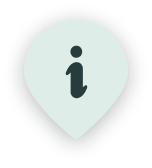
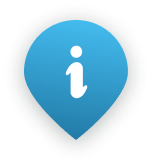
ajout style spécifique pour points infos

diff --git a/data/points-info.js b/data/points-info.js
@@ -2,6 +2,7 @@ const pointsInfo = [
     {
         milieu: "urbain",
         label: "Artificialisation des sols",
+        positionFiche: 'top',
         x: 54,
         y: 37,
         description: "L'artificialisation des sols est définie comme l'altération durable de tout ou partie des fonctions écologiques d'un sol, en particulier de ses fonctions biologiques, hydriques et climatiques, ainsi que de son potentiel agronomique par son occupation ou son usage. \n" +
@@ -11,7 +12,7 @@ const pointsInfo = [
     {
         milieu: "urbain",
         label: "Chateau d'eau",
-        positionFiche: 'left',
+        positionFiche: 'top',
         x: 95.2,
         y: 23,
         description: "Le château d'eau est une construction destinée à entreproser l'eau en hauteur pour permettre de la distribuer sous pression par gravité. \n" +
@@ -22,6 +23,7 @@ const pointsInfo = [
     {
         milieu: "urbain",
         label: "Bassin versant",
+        positionFiche: 'top',
         x: 73,
         y: 24,
         description: "Un bassin versant est une portion d'espace terrestre à l'intérieur de laquelle tous les écoulements, en surface ou en profondeur, se dirigent vers le même exutoire (cours d'eau, lac, mer). La ligne de délimitation du bassin versant avec ces voisins est appelée ligne de partage des eaux.",
@@ -29,6 +31,7 @@ const pointsInfo = [
     {
         milieu: "agricole",
         label: "Eaux souterraines",
+        positionFiche: 'top',
         x: 25,
         y: 70,
         description: "Les eaux souterraines sont constituées des réserves d'eau stockées dans les roches poreuses et perméables du sous-sol. Les nappes d'eau souterraine ne sont ni des lacs ni des cours d'eau souterrains : c'est de l'eau contenue dans les roches poreuses saturées par les eaux de pluie qui se sont infliltrées. Elles communiquent plus ou moins avec les milieux aquatiques de surface. Les nappes libres communiquent avec la surface car une couche perméable les recouvre. Les nappes captives sont recouvertes par au moins une couche géologique imperméable qui confine l'eau.",
@@ -36,6 +39,7 @@ const pointsInfo = [
     {
         milieu: "agricole",
         label: "Intrants",
+        positionFiche: 'top',
         x: 57,
         y: 44,
         description: "Un intrant peut tout autant être un pesticide de synthèse qui va avoir un impact négatif sur la qualité de l'eau tout comme un apport d'inoculum mycorhizien pour favoriser la tolérance de la culture vis à vis de la sécheresse. Ou encore, un amendement organique peut permettre d'accroitre la réserve utile des sols, améliore la perméabilité de la surface du sol, l'infiltration de l'eau et le ressuyage des sols ..." +
@@ -44,6 +48,7 @@ const pointsInfo = [
     {
         milieu: "agricole",
         label: "Prairies",
+        positionFiche: 'top',
         x: 67,
         y: 34,
         description: "Quelle que soit la nature de la prairie, son mode de conduite et sa localisation, une prairie joue un rôle important au regard de la protection de l'eau du fait qu'elle présente une couverture végétale permanente toute l'année et qu'elle est moins consommatrice d'intrants. Qui plus est, dans le cadre d'une prairie temporaire, elle permet de casser le cycle des adventices, d'apporter de l'azote et donc de diminuer l'usage d'intrants de synthèse pour les cultures qui lui succèdent.",
@@ -51,6 +56,7 @@ const pointsInfo = [
     {
         milieu: "naturel",
         label: "Libre évolution",
+        positionFiche: 'top',
         x: 47,
         y: 40,
         description: "Une zone humide laissée en libre évolution évolue naturellement selon plusieurs facteurs, notamment le climat, la topographie et les dynamiques écologiques locales. Voici les principales étapes et tendances possibles :\n" +
@@ -72,6 +78,7 @@ const pointsInfo = [
     {
         milieu: "naturel",
         label: "Plan d'aménagement forestier",
+        positionFiche: 'top',
         x: 81,
         y: 41,
         positionFiche: 'left',

diff --git a/styles.css b/styles.css
@@ -96,7 +96,7 @@ body[data-milieu="3"] #viewport-scroll {
 
 body.focus #viewport-scroll {
 /*    filter: grayscale(.9) brightness(1.15);*/
-    filter: brightness(1.15);
+/*    filter: brightness(1.15);*/
 }
 /*#focus-overlay {
     position:absolute;
@@ -155,6 +155,9 @@ body[data-milieu="3"] #focus-container {
 
 /*********** Amenagements ***********/
 
+.amenagement .amenagement-image {
+    transition: 2s;
+}
 .amenagement .amenagement-image img{
     position: absolute;
     pointer-events: none;
@@ -218,8 +221,8 @@ body[data-milieu="3"] #focus-container {
 
 .point-info .bulle-amenagement {
     background-image: url("img/UI/bulle_point_info.png");
-    background-image: url("img/UI/bulle_point_info_yellow.png");
     height: 152px;
+    filter: saturate(0.8);
 }
 
 .politique-gestion .bulle-amenagement {
@@ -260,6 +263,10 @@ body[data-milieu="3"] #focus-container {
     opacity: 0;
     visibility: hidden;
     pointer-events: none;
+}
+.amenagement.point-info .fiche-amenagement {
+    background:none;
+    padding-top:0;
 }
 
 .amenagement-ui.top .fiche-amenagement {
@@ -355,7 +362,7 @@ body[data-milieu="3"] #focus-container {
     background: linear-gradient(180deg, #5FD388 0%, #3EC46D 100%);
 }
 .amenagement.active .toggle-button{
-    background: linear-gradient(180deg, #d3a05f 0%, #d77e3f 100%);
+    background: linear-gradient(180deg, #e5d169 0%, #d1b739 100%);
 }
 
 

diff --git a/init.js b/init.js
@@ -94,7 +94,9 @@ function setupAmenagements()
         let amenagementClass = 'amenagement';
         if (isPolitiqueGestion)
             amenagementClass += ' politique-gestion';
-
+        else
+            amenagementClass += ' point-amenagement';
+        
         //-- Position UI
         let amenagementUIClass = '';
         if (isset(amenagement.positionFiche))
@@ -115,7 +117,7 @@ function setupAmenagements()
                         '<span class="effect-label">' + effect.label + '</span>' +
                         '</div>';
 
-                if (effectName == '')
+                if (modifier > 0)
                     positiveEffects += effectElt;
                 else
                     negativeEffects += effectElt;
@@ -126,7 +128,7 @@ function setupAmenagements()
             if (negativeEffects != '')
                 amenagementEffects += '<div class="negative-effects amenagement-effects-inner">' + negativeEffects + '</div>';
         }
-
+        
         let amenagementElt = $('' +
             '<div class="' + amenagementClass + '" data-label="' + amenagement.label + '">' +
                 '<div class="amenagement-image">' +

diff --git a/game.js b/game.js
@@ -170,7 +170,10 @@ function onClickBulleAmenagement()
     focusClone.find('.bulle-amenagement').removeClass('light');
 
     $('body').addClass('focus');
-    $('#focus-overlay').addClass('visible');
+    
+    if (!amenagementElt.is('.point-info'))
+        $('#focus-overlay').addClass('visible');
+    
     $('#focus-container').hide().delay(100).fadeIn(500);
 
     window.showBulleTimeout = setTimeout(function()
@@ -194,7 +197,7 @@ function toggleAmenagement()
     amenagement.active = amenagementElt.is('.active');
 
     updateEffects();
-    hideAllModals();
+    // hideAllModals();
 
     return false;
 }
